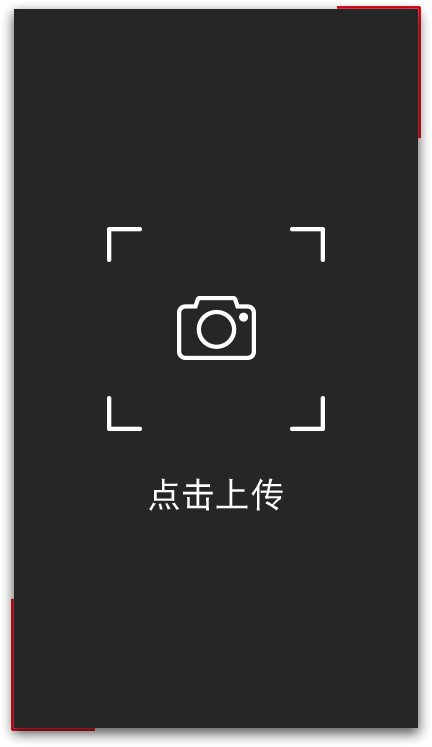
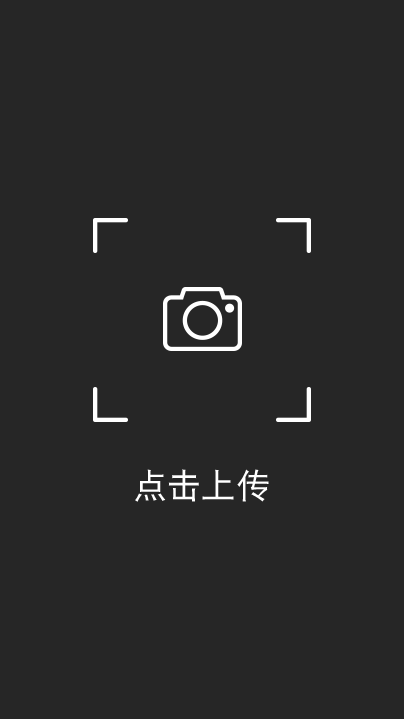
fix

diff --git a/audi/share/index.html b/audi/share/index.html
@@ -81,6 +81,7 @@
     <div class="swiper-wrapper">
       <!-- ********************* slide1 ********************* -->
       <section class="swiper-slide swiper-slide1">
+        <img src="./images/music.png" class="ani resize" style="width: 48px;height: 48px;top: 100px;left: 670px;">
         <img src="./images/logo.png" class="ani resize" style="width: 750px;height: 65px;top: 0px;left: 0;">
         <img src="./images/slogan.png" class="ani resize" style="width:513px;height:226px;right:40px;top:165px;z-index:3;" swiper-animate-effect="bounceInDown" swiper-animate-duration="1.5s" swiper-animate-delay="0s">
         <!-- <img src="upload/001.png" class="ani resize" style="width:320px;height:188px;left:0;top:140px;z-index:2;" swiper-animate-effect="rotateInDownLeft" swiper-animate-duration="0.5s" swiper-animate-delay="2s">
@@ -89,6 +90,7 @@
       </section>
      <!-- ********************* slide2 ********************* -->
       <section class="swiper-slide swiper-slide2">
+        <img src="./images/music.png" class="ani resize" style="width: 48px;height: 48px;top: 100px;left: 670px;">
         <img src="./images/logo.png" class="ani resize" style="width: 750px;height: 65px;top: 0px;left: 0;">
         <img src="./images/page2-cont.png" class="ani resize" style="width: 547px;height: 590px;top: 188px;left: 106px;">
         <!-- <img src="upload/004.png" class="ani resize" style="width:320px;height:64px;left:0px;top:10px;z-index:5; " swiper-animate-effect="bounce" swiper-animate-duration="0.5s" swiper-animate-delay="0s">
@@ -97,8 +99,10 @@
       </section>
       <!-- ********************* slide3 ********************* -->
       <section class="swiper-slide swiper-slide3">
+        <img src="./images/music.png" class="ani resize" style="width: 48px;height: 48px;top: 100px;left: 670px;">
         <img src="./images/logo.png" class="ani resize" style="width: 750px;height: 65px;top: 0px;left: 0;">
-        <img src="./images/upload-area.png" class="ani resize" style="width: 432px;height: 747px;top: 212px;left: 173px;">
+        <img src="./images/upload-area-border.png" class="ani resize" style="width: 410px;height: 725px;top: 212px;left: 173px;">
+        <img src="./images/upload-area.png" class="ani resize" style="width: 404px;height: 719px;top: 214px;left: 175px;">
         <img src="./images/confirm-photo.png" class="ani resize" style="width: 258px;height: 79px;top: 1056px;left: 94px;">
         <img src="./images/re-upload.png" class="ani resize" style="width: 258px;height: 79px;top: 1056px;left: 399px;">
         <!-- <img src="upload/007.png" class="ani resize" style="width:320px;height:66px;left:0px;top:30px;z-index:5; " swiper-animate-effect="bounce" swiper-animate-duration="0.5s" swiper-animate-delay="0s">
@@ -108,6 +112,7 @@
       </section>
       <!-- ********************* slide4 ********************* -->
       <section class="swiper-slide swiper-slide4">
+        <img src="./images/music.png" class="ani resize" style="width: 48px;height: 48px;top: 100px;left: 670px;">
         <img src="./images/logo.png" class="ani resize" style="width: 750px;height: 65px;top: 0px;left: 0;">
         <img src="http://pic35.photophoto.cn/20150629/0036036188791659_b.jpg" class="ani resize" style="width: 434px;height: 748px;top: 203px;left: 167px;border-radius: 10px;">
         <img src="./images/photo-border.png" class="ani resize" style="width: 434px;height: 748px;top: 203px;left: 167px;">
